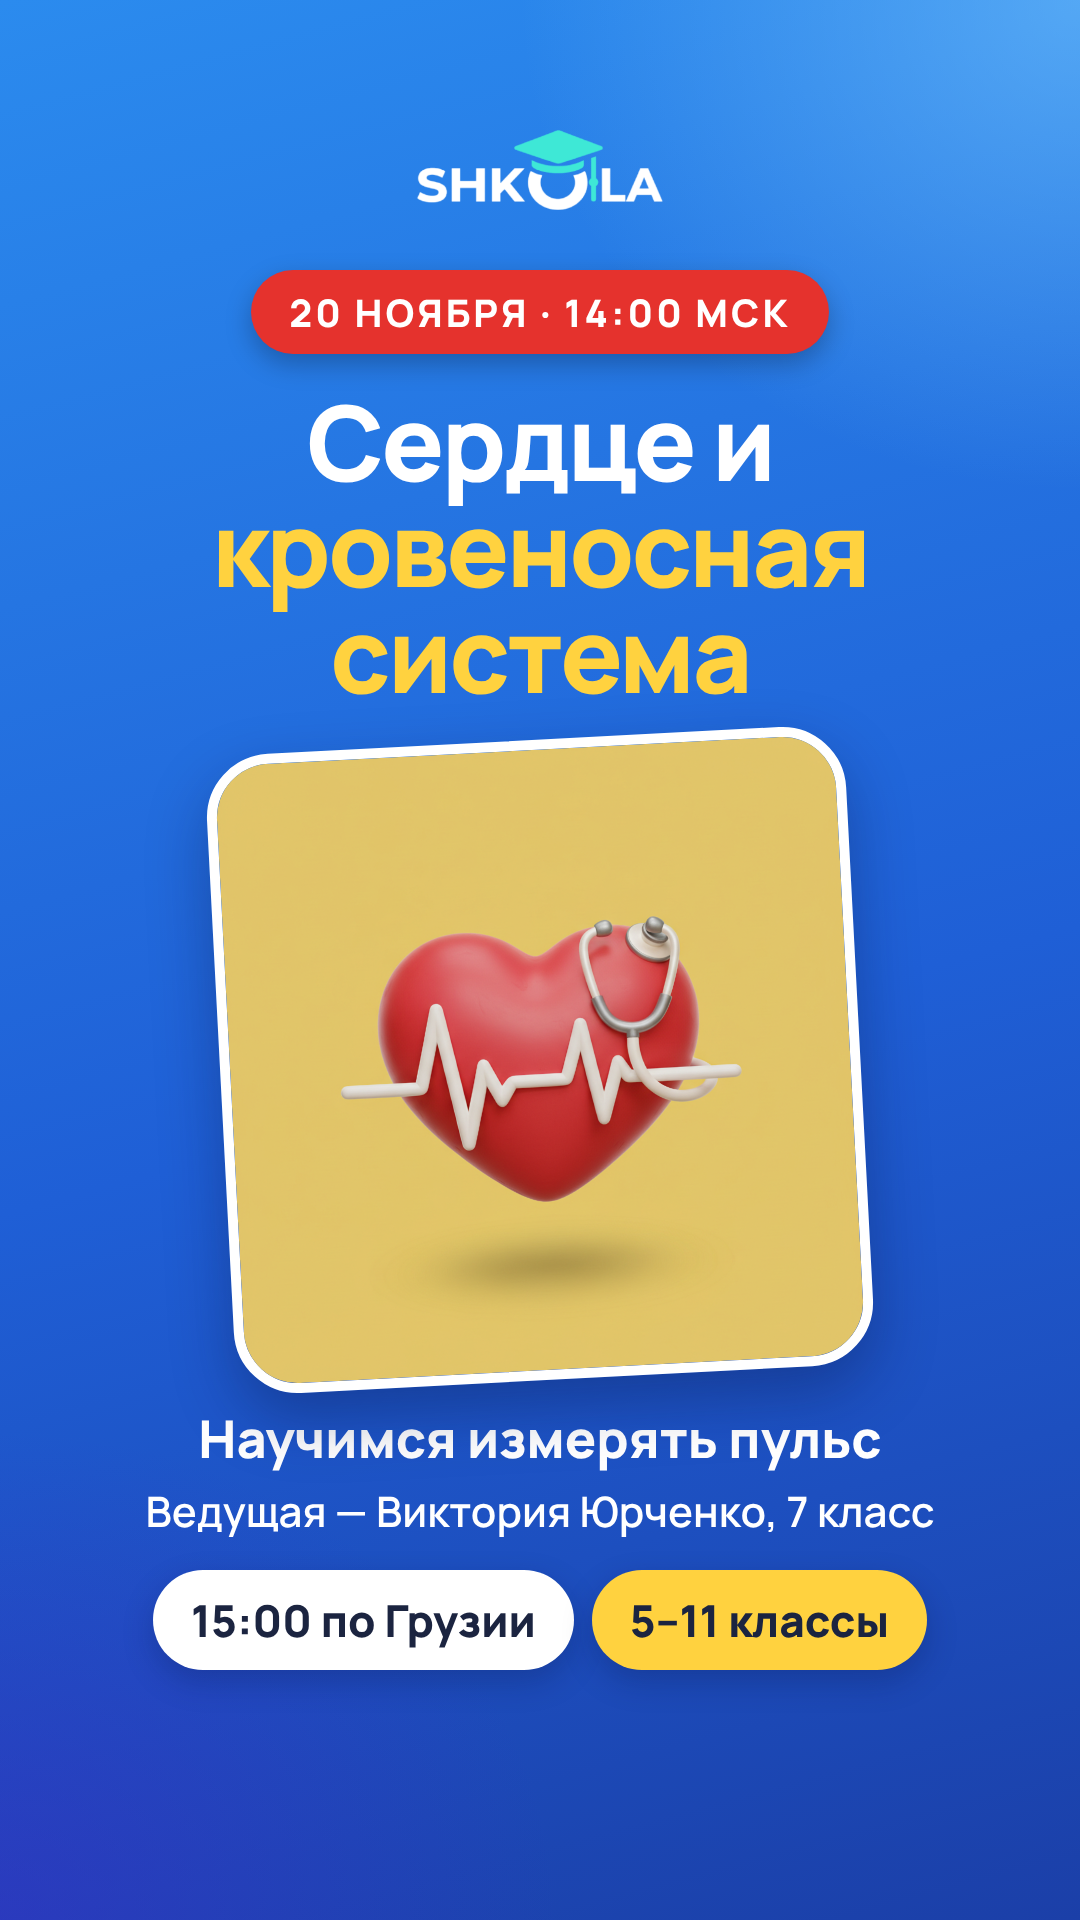
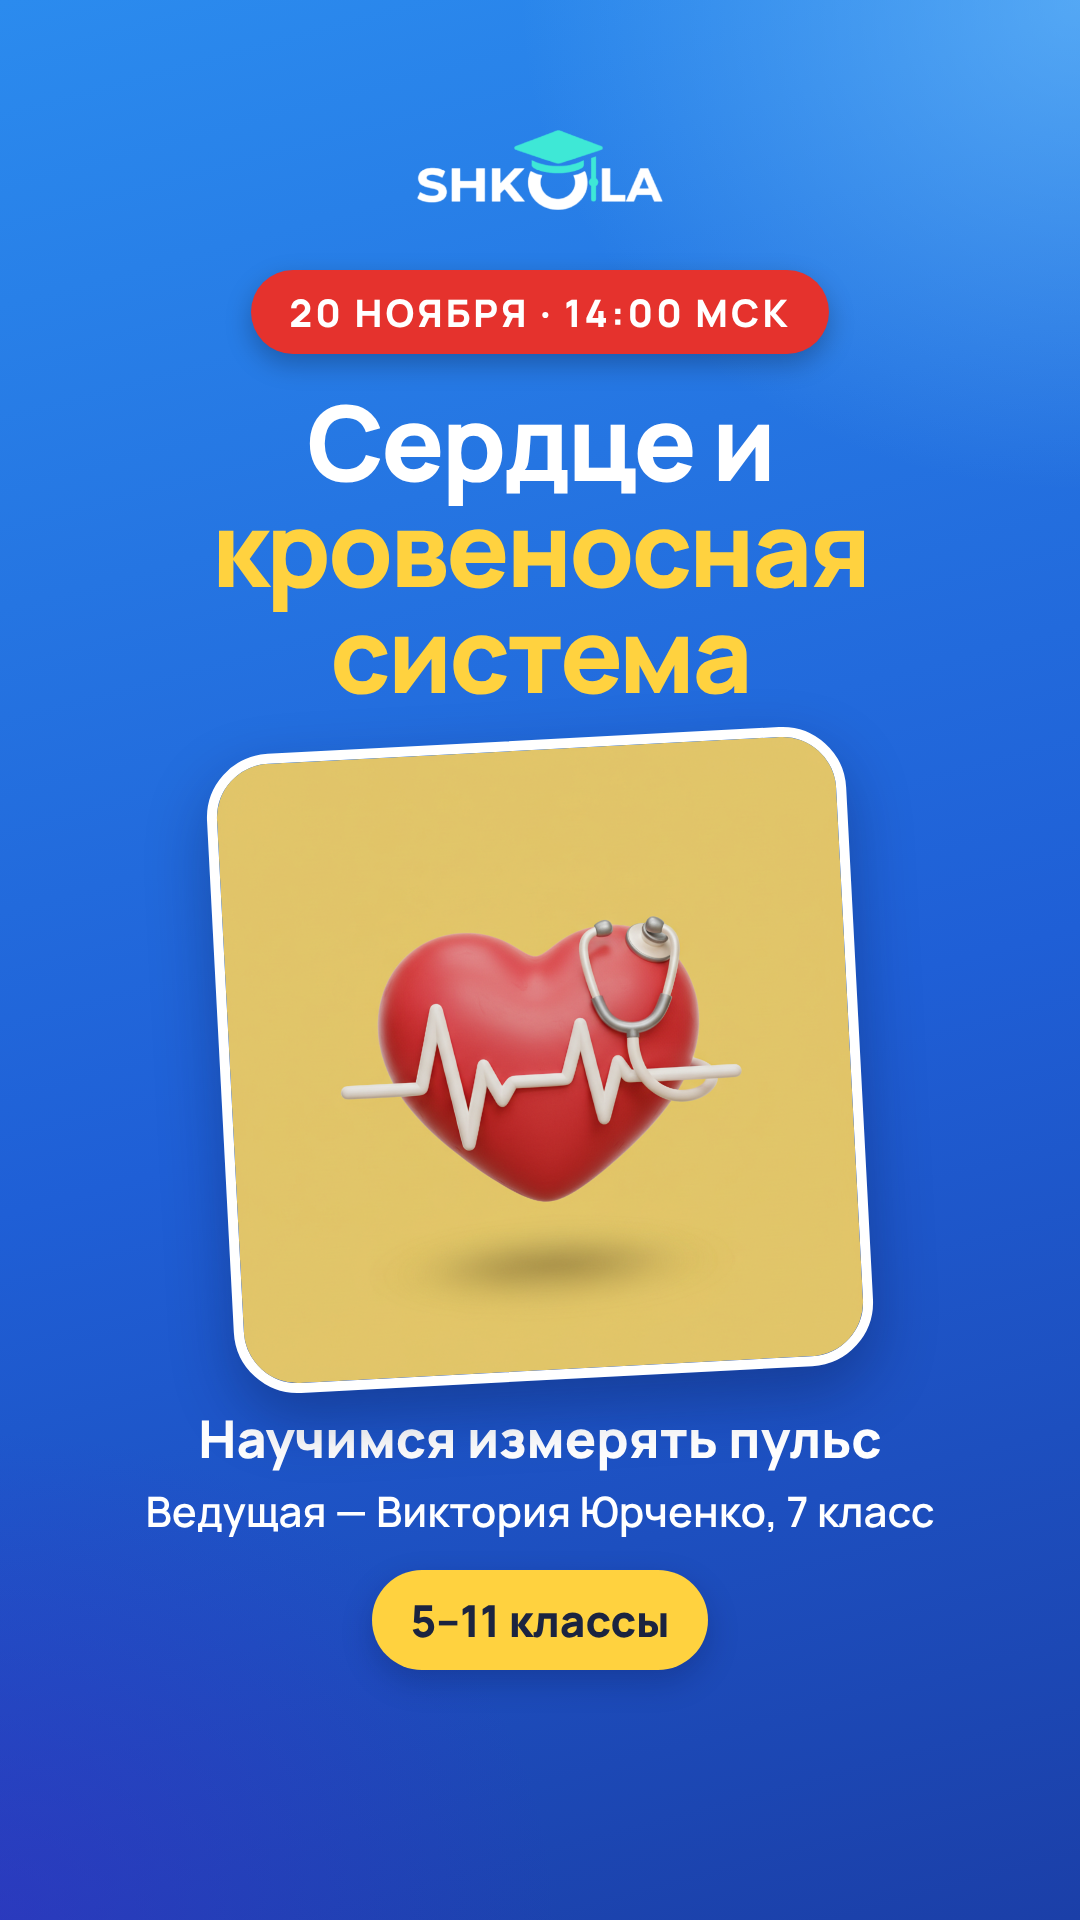
Heart masterclass story: show MSK time only
Claude-Session: https://claude.ai/code/session_01EUhV7x1P3xabAX3GuSkHDE

Changed region(s): [[0.1222, 0.8125, 0.8556, 0.875]]

diff --git a/masterclass-carousel/stories-live/src/h.html b/masterclass-carousel/stories-live/src/h.html
@@ -24,5 +24,5 @@ h1 em{font-style:normal;color:#FFD23F}
  <div class="pic"><img src="heart.png"></div>
  <div class="t">Научимся измерять пульс</div>
  <div class="who">Ведущая — Виктория Юрченко, 7 класс</div>
- <div class="row"><span class="chip">15:00 по Грузии</span><span class="chip y">5–11 классы</span></div>
+ <div class="row"><span class="chip y">5–11 классы</span></div>
 </div></div></body></html>
